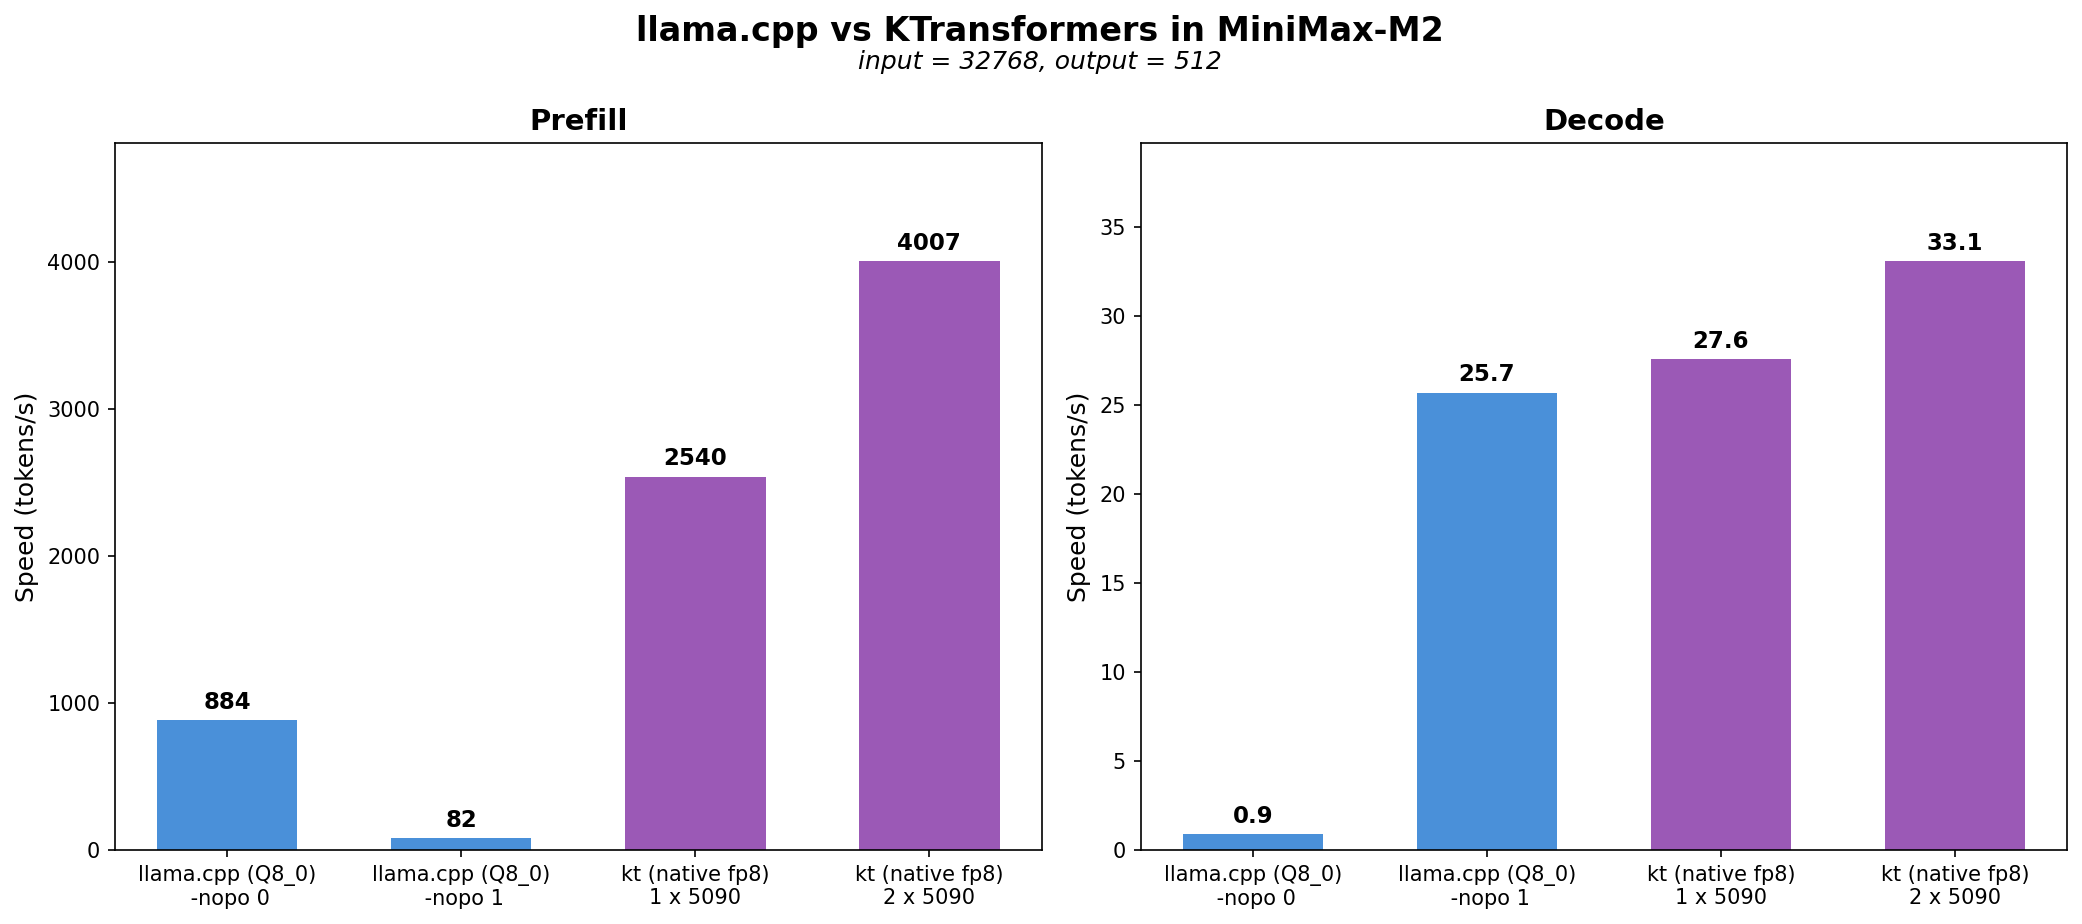
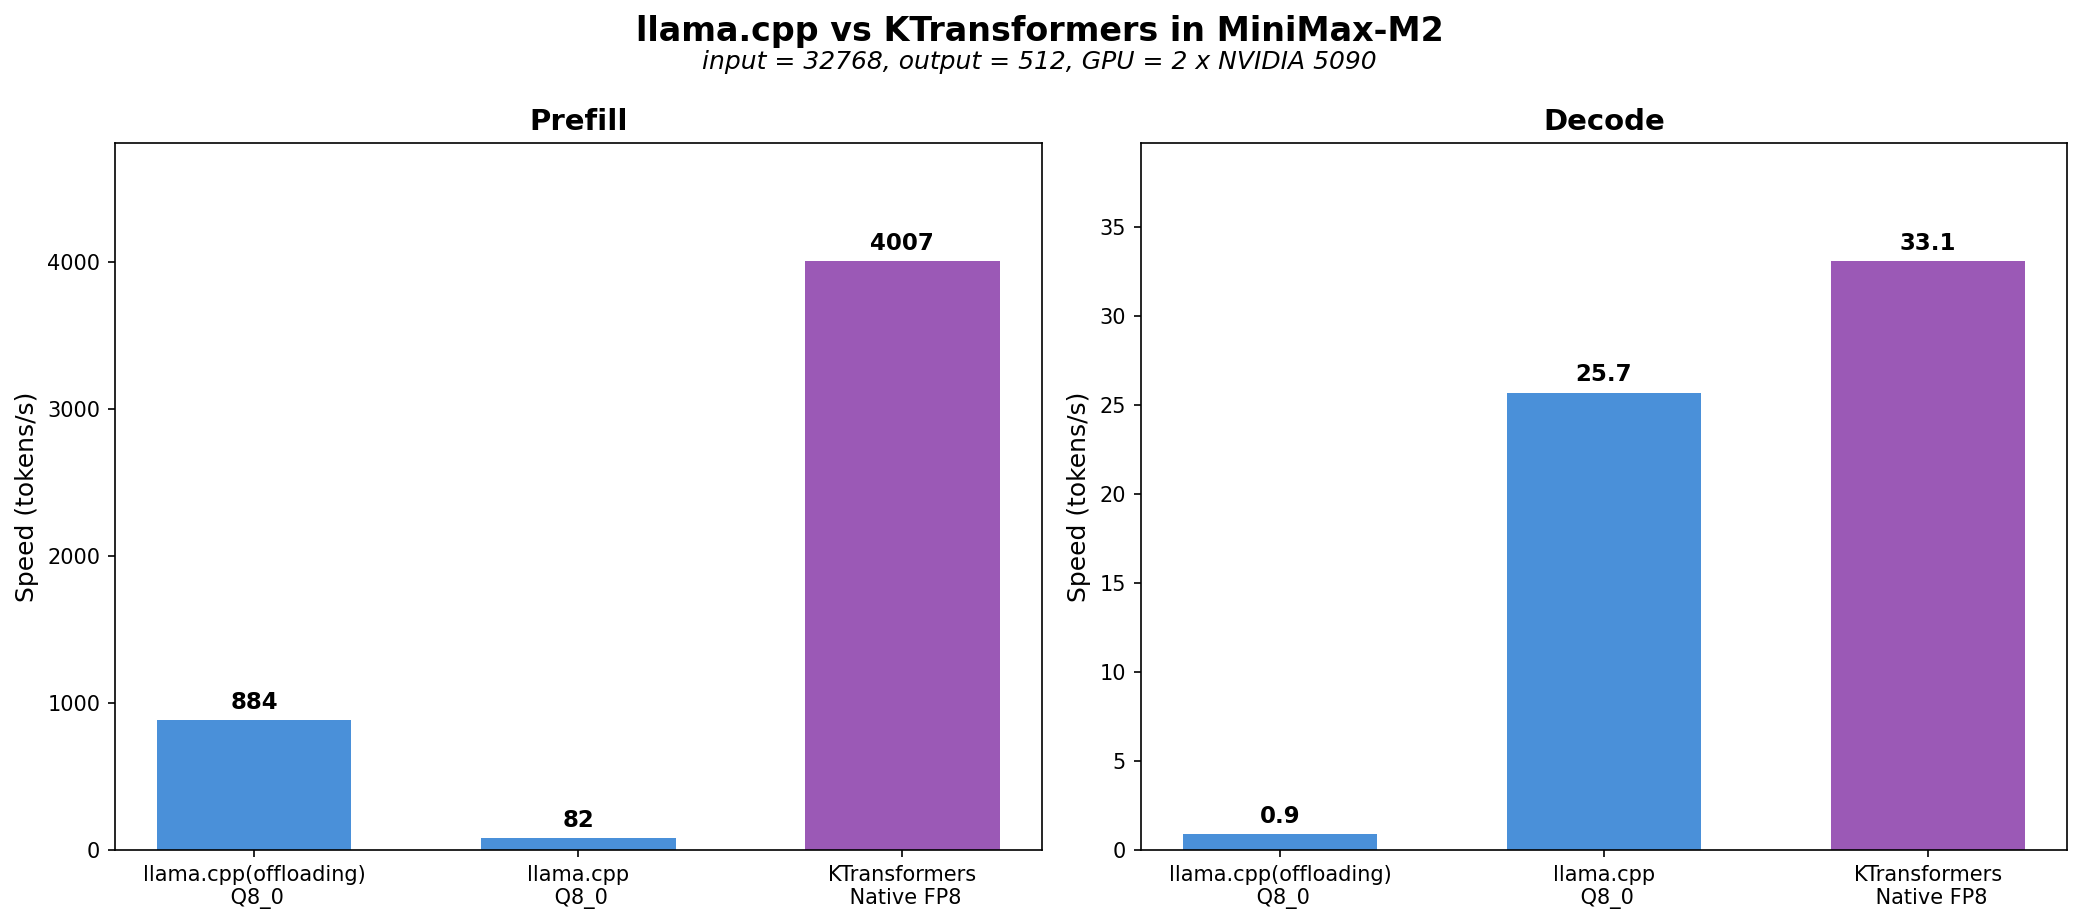
[docs]: fix and add MiniMax-M2 tutorial images.

diff --git a/doc/en/kt-kernel/MiniMax-M2.1-Tutorial.md b/doc/en/kt-kernel/MiniMax-M2.1-Tutorial.md
@@ -168,6 +168,8 @@ The following benchmarks were measured with single concurrency (Prefill tps / De
 | 1 x RTX 5090 (32 GB) | 2 x AMD EPYC 9355 | PCIe 5.0 | 408 / 32.1 | 1196 / 31.4 | 2540 / 27.6 |
 | 2 x RTX 5090 (32 GB) | 2 x AMD EPYC 9355 | PCIe 5.0 | 414 / 35.9 | 1847 / 35.5 | 4007 / 33.1 |
 
+![Throughput in 2 x RTX 5090](../../assets/MiniMax-M2_speed.png)
+
 ### Comparison with llama.cpp
 
 We benchmarked KT-Kernel + Sglang against llama.cpp to demonstrate the performance advantages of our CPU-GPU heterogeneous inference approach.
